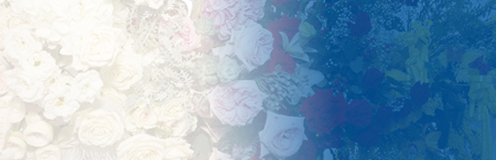
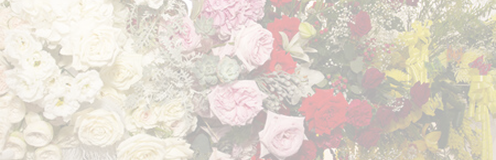
calendar ready

diff --git a/calendar.html b/calendar.html
@@ -84,8 +84,8 @@
                         <div class="event__block  one">
                             <img class="event__logo" src="img/event-logo/wold-food.svg" alt="wold-food_logo">
                             <div class="event__date">
-                                <p>2-3 ИЮЛЯ 2025г</p>
-                                <p>Москва, Крокус Экспо</p>
+                                <p class="event__date-day">2-3 ИЮЛЯ 2025г</p>
+                                <p class="event__date-place">Москва, Крокус Экспо</p>
                             </div>
                         </div>
                         <div class="event__description">
@@ -94,7 +94,7 @@
                             <p class="event__text">Большая закупка продуктов и товаров в федеральные и региональные
                                 торговые сети</p>
                             <div class="event__bottom">
-                                <p class="event__text-count">100 закупщиков</p>
+                                <p class="event__text-count">более 100 закупщиков</p>
                                 <p class="event__text-caterory">В категориях: food</p>
                                 <div class="event__buttons">
                                     <button class="event__button btn-reset">Тарифы</button>
@@ -106,21 +106,20 @@
                         </div>
                     </li>
                     <li class="event__item">
-                        <div class="event__block  one">
-                            <img class="event__logo" src="img/event-logo/wold-food.svg" alt="wold-food_logo">
+                        <div class="event__block  two">
+                            <img class="event__logo" src="img/event-logo/flowerslogo2.svg" alt="flowers_logo">
                             <div class="event__date">
-                                <p>2-3 ИЮЛЯ 2025г</p>
-                                <p>Москва, Крокус Экспо</p>
+                                <p class="event__date-day">9 СЕНТЯБРЯ 2025г</p>
+                                <p class="event__date-place">Москва, Крокус Экспо</p>
                             </div>
                         </div>
                         <div class="event__description">
-                            <h2 class="event__title-main">WorldFood Moscow 2025</h2>
-                            <h3 class="event__title">2-3 июля, Москва, Крокус Экспо</h3>
-                            <p class="event__text">Большая закупка продуктов и товаров в федеральные и региональные
-                                торговые сети</p>
+                            <h2 class="event__title-main">Цветы Экспо 2025</h2>
+                            <h3 class="event__title">9 сентября, Москва, Крокус Экспо</h3>
+                            <p class="event__text">Фишка события в пяти восьми словах, неочевидная выгода (форум, семинар, персона)</p>
                             <div class="event__bottom">
-                                <p class="event__text-count">100 закупщиков</p>
-                                <p class="event__text-caterory">В категориях: food</p>
+                                <p class="event__text-count">120 закупщиков</p>
+                                <p class="event__text-caterory">В категориях: nonfood</p>
                                 <div class="event__buttons">
                                     <button class="event__button btn-reset">Тарифы</button>
                                     <button class="event__button btn-reset">Участники</button>
@@ -148,21 +147,20 @@
 
                 <ul class="event__list list-reset">
                     <li class="event__item">
-                        <div class="event__block  one">
-                            <img class="event__logo" src="img/event-logo/wold-food.svg" alt="wold-food_logo">
-                            <div class="event__date">
-                                <p>2-3 ИЮЛЯ 2025г</p>
-                                <p>Москва, Крокус Экспо</p>
+                        <div class="event__block  tree">
+                            <img class="event__logo" src="img/event-logo/neva.svg" alt="neva">
+                            <div class="event__date white">
+                                <p class="event__date-day">2-3 ИЮЛЯ 2025г</p>
+                                <p class="event__date-place">Санкт-Петербург DAA EXPO</p>
                             </div>
                         </div>
                         <div class="event__description">
-                            <h2 class="event__title-main">WorldFood Moscow 2025</h2>
-                            <h3 class="event__title">2-3 июля, Москва, Крокус Экспо</h3>
-                            <p class="event__text">Большая закупка продуктов и товаров в федеральные и региональные
-                                торговые сети</p>
+                            <h2 class="event__title-main">NEVA BUYERS WEEK 2025</h2>
+                            <h3 class="event__title">2-3 июля, Санкт-Петербург DAA EXPO</h3>
+                            <p class="event__text">Фишка события в пяти восьми словах, неочевидная выгода (форум, семинар, персона)</p>
                             <div class="event__bottom">
-                                <p class="event__text-count">100 закупщиков</p>
-                                <p class="event__text-caterory">В категориях: food</p>
+                                <p class="event__text-count">160 закупщиков</p>
+                                <p class="event__text-caterory">В категориях: food, nonfood</p>
                                 <div class="event__buttons">
                                     <button class="event__button btn-reset">Тарифы</button>
                                     <button class="event__button btn-reset">Участники</button>
@@ -173,21 +171,20 @@
                         </div>
                     </li>
                     <li class="event__item">
-                        <div class="event__block  one">
-                            <img class="event__logo" src="img/event-logo/wold-food.svg" alt="wold-food_logo">
-                            <div class="event__date">
-                                <p>2-3 ИЮЛЯ 2025г</p>
-                                <p>Москва, Крокус Экспо</p>
+                        <div class="event__block  four">
+                            <img class="event__logo" src="img/event-logo/retail.svg" alt="ritail-logo">
+                            <div class="event__date white">
+                                <p class="event__date-day">3 ИЮНЯ 2025г</p>
+                                <p class="event__date-place">Москва, ЦМТ</p>
                             </div>
                         </div>
                         <div class="event__description">
-                            <h2 class="event__title-main">WorldFood Moscow 2025</h2>
-                            <h3 class="event__title">2-3 июля, Москва, Крокус Экспо</h3>
-                            <p class="event__text">Большая закупка продуктов и товаров в федеральные и региональные
-                                торговые сети</p>
+                            <h2 class="event__title-main">Неделя Ритейла 2025</h2>
+                            <h3 class="event__title">3 июня, Москва, ЦМТ</h3>
+                            <p class="event__text">Фишка события в пяти восьми словах, неочевидная выгода (форум, семинар, персона)</p>
                             <div class="event__bottom">
-                                <p class="event__text-count">100 закупщиков</p>
-                                <p class="event__text-caterory">В категориях: food</p>
+                                <p class="event__text-count">250 закупщиков</p>
+                                <p class="event__text-caterory">В категориях: food, nonfood</p>
                                 <div class="event__buttons">
                                     <button class="event__button btn-reset">Тарифы</button>
                                     <button class="event__button btn-reset">Участники</button>

diff --git a/css/event.css b/css/event.css
@@ -78,6 +78,17 @@
     background-image: url(../img/event-fon/foodfon.png);
 }
 
+.events .two {
+    background-image: url(../img/event-fon/flauerfon.png);
+}
+
+.events .tree {
+    background-image: url(../img/event-fon/neva.png);
+}
+
+.events .four {
+    background-image: url(../img/event-fon/ritailfon.png);
+}
 .events .event__logo {
     width: 260px;
 }
@@ -86,7 +97,9 @@
     text-align: center;
     font-size: calc(var(--base-font-size)* 1.25);
 }
-
+.events .event__date-day{
+text-transform: capitalize;
+}
 .events .event__date p {
     margin: 0;
     line-height: calc(var(--base-gap) * 1.25);
@@ -192,6 +205,10 @@
     margin-bottom: calc(var(--base-gap) * 1);
 }
 
+.events .white {
+    color:#fff;
+}
+
 @media (max-width: 1300px) {
     .events .event__item {
         flex-direction: column;
@@ -199,6 +216,18 @@
 
     .events .one {
         background-image: url(../img/event-fon/foodfon-line.png);
+    }
+
+    .events .two {
+        background-image: url(../img/event-fon/flauer-line.png);
+    }
+
+    .events .tree {
+        background-image: url(../img/event-fon/neva-line.png);
+    }
+
+    .events .four {
+        background-image: url(../img/event-fon/retalion-line.png);
     }
 
     .events .event__block {
@@ -275,6 +304,18 @@
 
     .events .one {
         background-image: url(../img/event-fon/foodfon.png);
+    }
+
+    .events .two {
+        background-image: url(../img/event-fon/flauerfon.png);
+    }
+
+    .events .tree {
+        background-image: url(../img/event-fon/neva.png);
+    }
+
+    .events .four {
+        background-image: url(../img/event-fon/ritailfon.png);
     }
 
     .events .event__banners {
